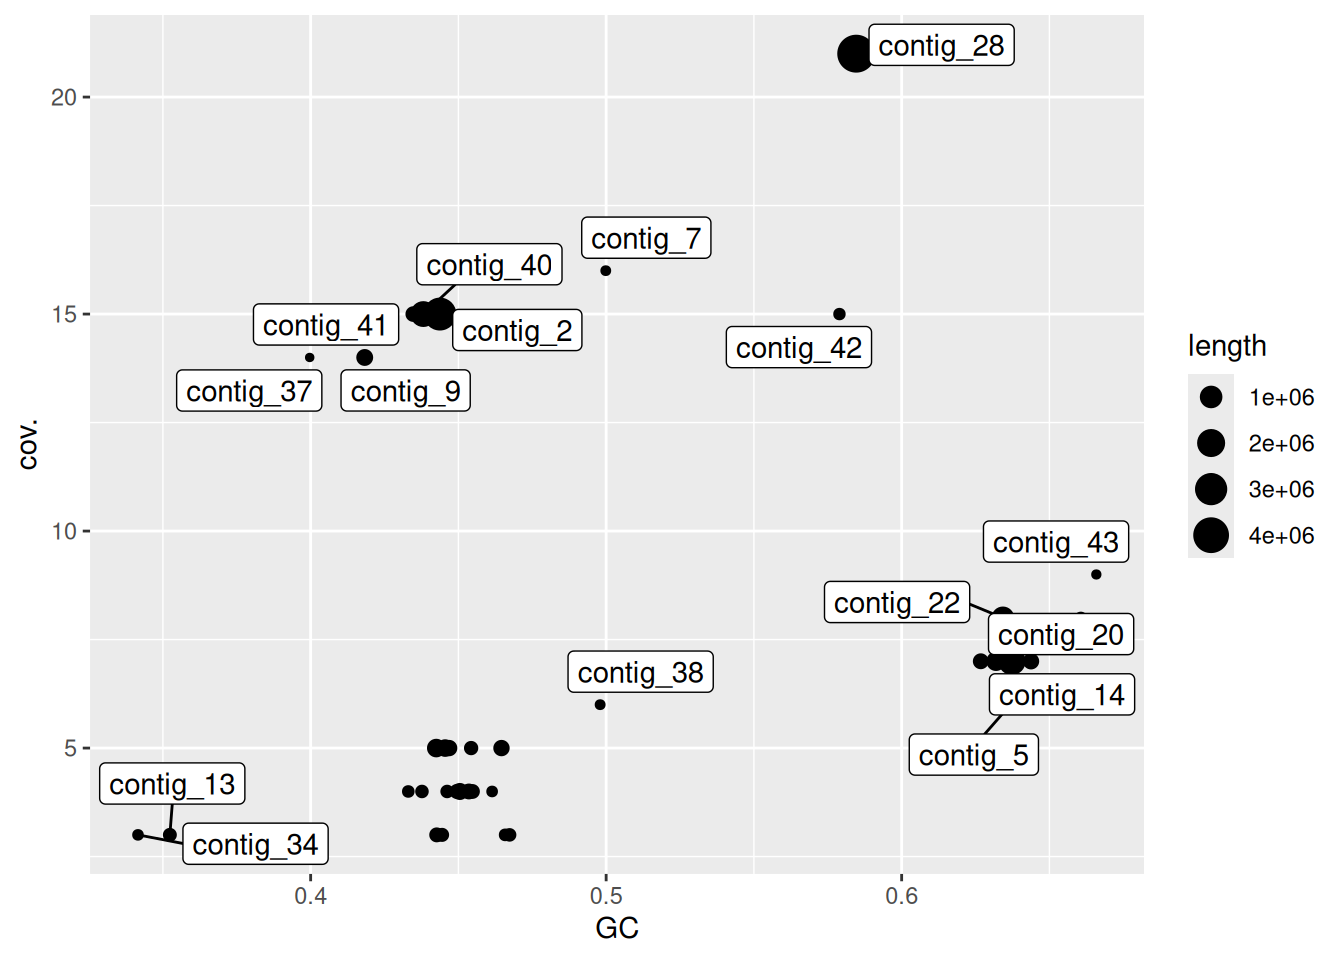
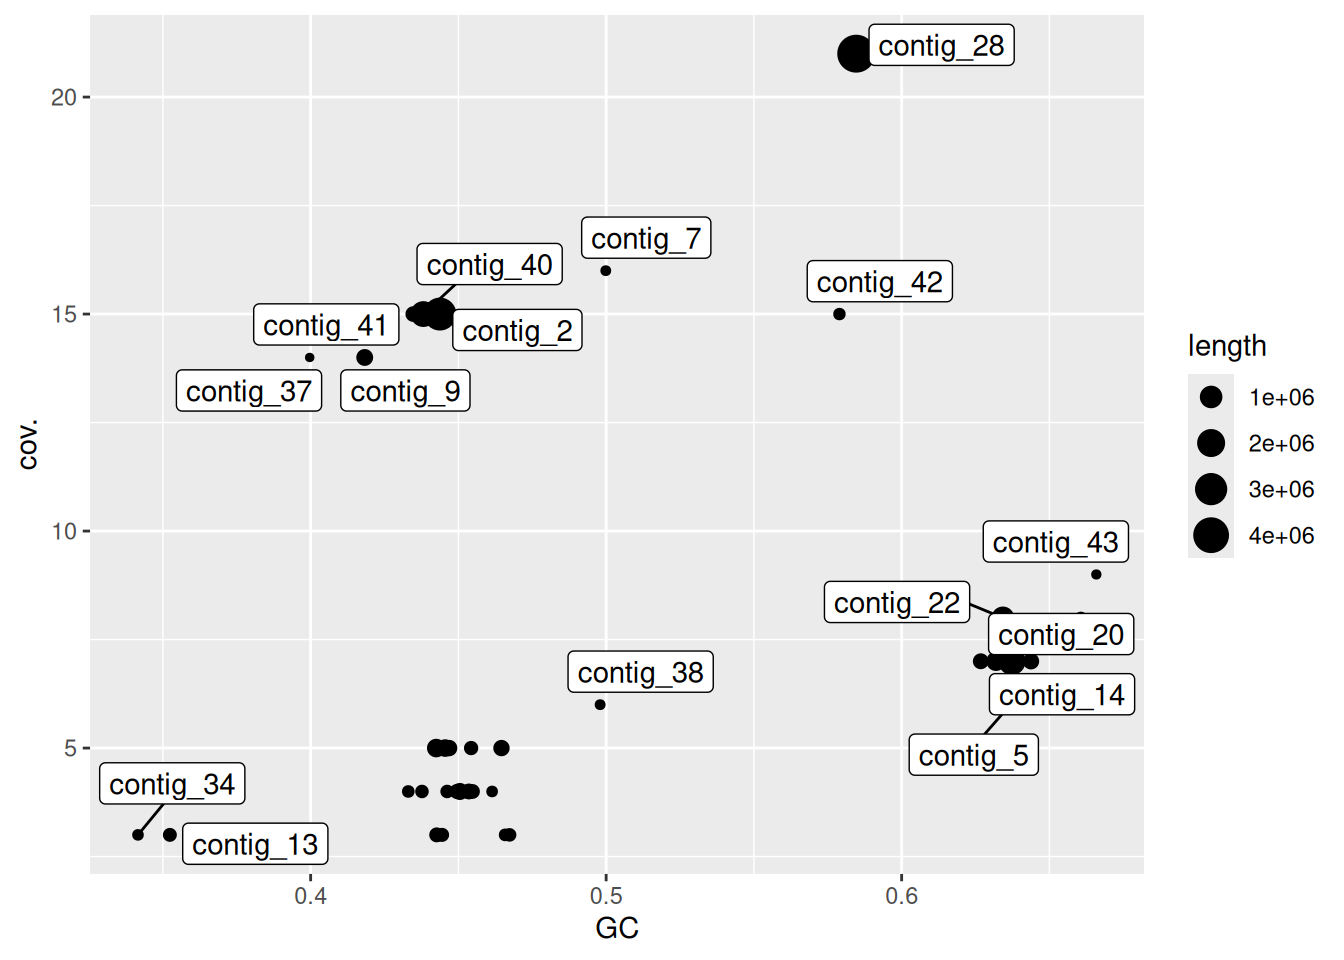
Updated small change for website

diff --git a/Workshop_3/workshop3_metasm.html b/Workshop_3/workshop3_metasm.html
@@ -112,7 +112,6 @@ pre > code.sourceCode > span > a:first-child::before { text-decoration: underlin
 </header>
 
 
-<p>Binning and how it works</p>
 <section id="workshop-3---metagenome-assembly" class="level1">
 <h1>Workshop 3 - Metagenome assembly</h1>
 <p>In this workshop we will assemble a mock metagenome consisting of five bacterial species, which is very simple compared to a real metagenome. Regardless it has been designed to capture some key challenges that are inherited when assembling a metagenome. This includes variable coverage and similar sequences.</p>